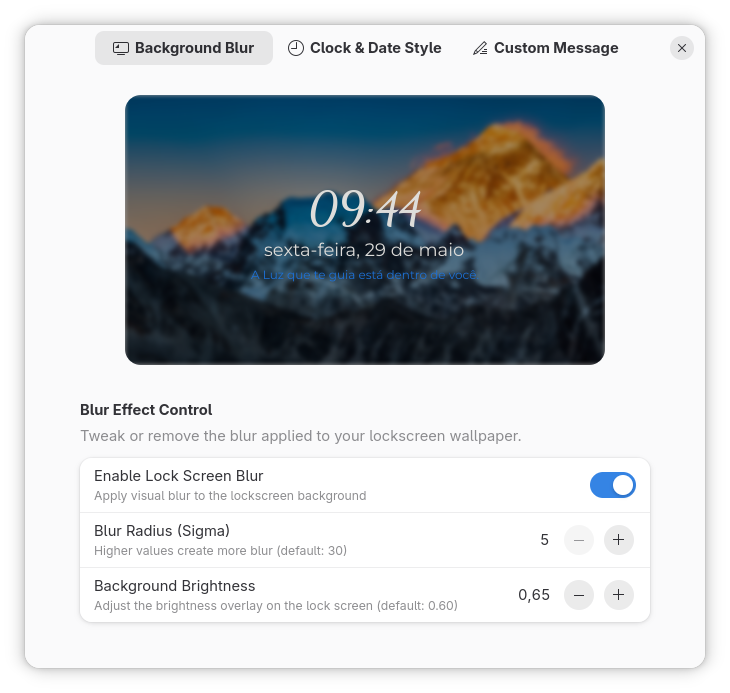
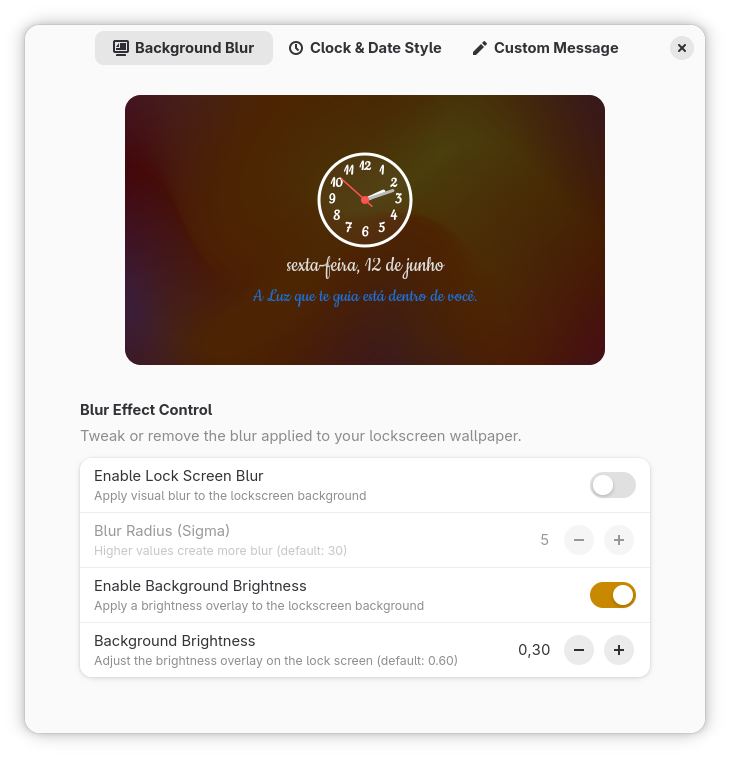
docs: update README with v1.1.0 features — analog clock, skins, colors
Also fix brightness overlay on lock screen using CSS widget instead of Clutter.BrightnessContrastEffect

diff --git a/extension.js b/extension.js
@@ -510,46 +510,58 @@ export default class LockscreenStudioExtension extends Extension {
                 const enableBrightness = settings.get_boolean('enable-brightness');
                 const blurBrightness = settings.get_double('blur-brightness');
 
-                if (enableBlur || enableBrightness) {
-                    // Fine-tune the blur radius and brightness on all background actors
-                    if (this._backgroundGroup) {
-                        // Retrieve current screen scale factor to ensure blur looks consistent on HiDPI/Retina screens
-                        let scaleFactor = 1;
-                        try {
-                            const themeContext = St.ThemeContext.get_for_stage(global.stage);
-                            if (themeContext) {
-                                scaleFactor = themeContext.scale_factor;
-                            }
-                        } catch (e) {
-                            // Fallback
+                if (this._backgroundGroup) {
+                    let scaleFactor = 1;
+                    try {
+                        const themeContext = St.ThemeContext.get_for_stage(global.stage);
+                        if (themeContext) {
+                            scaleFactor = themeContext.scale_factor;
                         }
+                    } catch (e) {}
 
-                        this._backgroundGroup.get_children().forEach(actor => {
-                            let effect = actor.get_effect('blur');
-                            if (effect) {
-                                // Newer GNOME Shell (46+) uses 'radius'. It expects sigma * 2
-                                if ('radius' in effect) {
-                                    effect.radius = enableBlur ? (blurRadius * 2 * scaleFactor) : 0;
+                    // Handle blur on background actors
+                    this._backgroundGroup.get_children().forEach(actor => {
+                        let blurEffect = actor.get_effect('blur');
+                        if (blurEffect) {
+                            if (enableBlur) {
+                                if ('radius' in blurEffect) {
+                                    blurEffect.radius = blurRadius * 2 * scaleFactor;
                                 }
-                                // Older GNOME Shell uses 'sigma'
-                                if ('sigma' in effect) {
-                                    effect.sigma = enableBlur ? (blurRadius * scaleFactor) : 0;
+                                if ('sigma' in blurEffect) {
+                                    blurEffect.sigma = blurRadius * scaleFactor;
                                 }
-                                if ('brightness' in effect) {
-                                    effect.brightness = enableBrightness ? blurBrightness : 1.0;
+                            } else {
+                                if ('radius' in blurEffect) {
+                                    blurEffect.radius = 0;
+                                }
+                                if ('sigma' in blurEffect) {
+                                    blurEffect.sigma = 0;
                                 }
                             }
+                        }
+                    });
+
+                    // Handle brightness as overlay widget on background group
+                    if (!this._lssBrightnessOverlay) {
+                        this._lssBrightnessOverlay = new St.Widget({
+                            reactive: false,
                         });
+                        this._backgroundGroup.add_child(this._lssBrightnessOverlay);
                     }
-                } else {
-                    // Remove all blur effects from background group if both blur and brightness are disabled
-                    if (this._backgroundGroup) {
-                        this._backgroundGroup.get_children().forEach(actor => {
-                            let effect = actor.get_effect('blur');
-                            if (effect) {
-                                actor.remove_effect(effect);
-                            }
-                        });
+
+                    const bgWidth = this._backgroundGroup.width;
+                    const bgHeight = this._backgroundGroup.height;
+
+                    if (enableBrightness) {
+                        const opacity = Math.max(0, Math.min(1, 1.0 - blurBrightness));
+                        this._lssBrightnessOverlay.set_size(bgWidth, bgHeight);
+                        this._lssBrightnessOverlay.set_position(0, 0);
+                        this._lssBrightnessOverlay.style = `
+                            background-color: rgba(0, 0, 0, ${opacity});
+                        `;
+                        this._lssBrightnessOverlay.visible = true;
+                    } else {
+                        this._lssBrightnessOverlay.visible = false;
                     }
                 }
             };
@@ -672,6 +684,12 @@ export default class LockscreenStudioExtension extends Extension {
                     dialog._customTextLabel.destroy();
                     dialog._customTextLabel = null;
                 }
+            }
+
+            // Remove brightness overlay added by extension
+            if (dialog._lssBrightnessOverlay) {
+                dialog._lssBrightnessOverlay.destroy();
+                dialog._lssBrightnessOverlay = null;
             }
 
             // Re-apply native background blur effects by calling the restored original method

diff --git a/README.md b/README.md
@@ -1,6 +1,6 @@
 # 🌟 Lockscreen Studio 🌟
 
-A modern and premium GNOME Shell extension to fully customize and control your lock screen experience. Compatible with **GNOME 46, 47, and 48**.
+A modern and premium GNOME Shell extension to fully customize and control your lock screen experience. Compatible with **GNOME 45, 46, 47, 48, 49, and 50**.
 
 Built completely with **ES Modules (ESM)** and optimized for modern GNOME design guidelines using GTK4 and Libadwaita.
 
@@ -36,6 +36,13 @@ Built completely with **ES Modules (ESM)** and optimized for modern GNOME design
     *   Customize font sizes in pixels.
     *   Set custom **font families** (e.g. *Cantarell*, *Sans*, *Ubuntu*, *system-ui*).
     *   Change text color using Hex codes.
+    *   **4 clock styles**: Default Digital, Separated Colors (Horizontal), Vertical Stack, and **Analog Clock**.
+*   **🕐 Analog Clock** *(new in v1.1.0)*:
+    *   Beautiful analog clock with hour, minute, and optional second hand.
+    *   **3 skins**: **Classic** (numbers 1-12), **Minimalist** (elegant dots), **Accent** (bold uniform ticks + colored glow).
+    *   Adjustable clock **diameter** (80–400px).
+    *   Independent colors for hour hand, minute hand, second hand, numbers, and ticks.
+    *   **Reset Colors** button to restore the harmonious default palette.
 *   **📅 Date Display Styling**:
     *   Toggle date visibility.
     *   Set custom font sizes, families, and colors.
@@ -45,6 +52,7 @@ Built completely with **ES Modules (ESM)** and optimized for modern GNOME design
 *   **🎨 Libadwaita Preferences**:
     *   Beautiful, premium, and native preferences window fully aligned with standard GNOME styles.
     *   Interactive controls (switches, adjust spinrows, and entries) that update settings in real-time.
+    *   **Live preview** of the lock screen background with real-time clock rendering.
 
 ---
 
